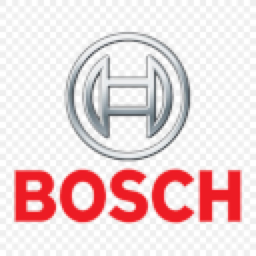
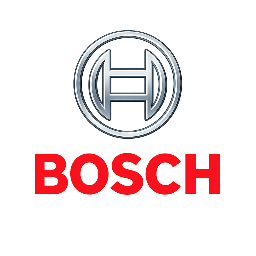
feat(pointtapi): WiFi firmware + energy-efficiency sensors, promote temps out of diagnostics, poll /programs + /devices (#15)
Supply temperature, return temperature (new) and modulation are regular sensors now instead of diagnostics. Adds WiFi firmware version and a reference-gated /gateway/ui/eco energy-efficiency sensor. Removes the firmware-update-state sensor (redundant with the update entity — existing installs should delete the orphaned registry entry once). Coordinator now also polls /programs and /devices as groundwork for ETRV telemetry. Refreshed brand icon.

Contributed by @jfhautenauven.

Changed region(s): [[0.0312, 0.0938, 0.9688, 0.875]]

diff --git a/custom_components/bosch/pointtapi_entities.py b/custom_components/bosch/pointtapi_entities.py
@@ -769,11 +769,24 @@ def _pointtapi_open_window_binary_sensor_descriptions(
     )
 
 
+def _gateway_ui_has_eco_reference(data: dict[str, Any]) -> bool:
+    """Return True when /gateway/ui references include /gateway/ui/eco."""
+    ui = data.get("/gateway/ui") if data else None
+    if not isinstance(ui, dict):
+        return False
+    refs = ui.get("references") or []
+    return any(
+        isinstance(ref, dict) and ref.get("id") == "/gateway/ui/eco"
+        for ref in refs
+    )
+
+
 # Curated POINTTAPI sensors: path, name, device_class, entity_category
 def _pointtapi_sensor_descriptions(
     data: dict[str, Any] | None = None,
 ) -> tuple[BoschPoinTTAPISensorEntityDescription, ...]:
     """Return all curated POINTTAPI sensor descriptions."""
+    data = data or {}
     descriptions = [
         # ── Existing sensors ─────────────────────────────────────────────────
         BoschPoinTTAPISensorEntityDescription(
@@ -803,8 +816,8 @@ def _pointtapi_sensor_descriptions(
             entity_category=EntityCategory.DIAGNOSTIC,
         ),
         BoschPoinTTAPISensorEntityDescription(
-            key="/gateway/update/state",
-            translation_key="update_state",
+            key="/gateway/wifi/versionFirmware",
+            translation_key="wifi_firmware_version",
             entity_category=EntityCategory.DIAGNOSTIC,
         ),
         BoschPoinTTAPISensorEntityDescription(
@@ -914,13 +927,17 @@ def _pointtapi_sensor_descriptions(
             translation_key="actual_supply_temperature",
             device_class=SensorDeviceClass.TEMPERATURE,
             native_unit_of_measurement=UnitOfTemperature.CELSIUS,
-            entity_category=EntityCategory.DIAGNOSTIC,
         ),
         BoschPoinTTAPISensorEntityDescription(
             key="/heatSources/actualModulation",
             translation_key="actual_modulation",
             native_unit_of_measurement="%",
-            entity_category=EntityCategory.DIAGNOSTIC,
+        ),
+        BoschPoinTTAPISensorEntityDescription(
+            key="/heatSources/returnTemperature",
+            translation_key="return_temperature",
+            device_class=SensorDeviceClass.TEMPERATURE,
+            native_unit_of_measurement=UnitOfTemperature.CELSIUS,
         ),
         # ── Solar circuit sensors ─────────────────────────────────────────────
         BoschPoinTTAPISensorEntityDescription(
@@ -994,6 +1011,17 @@ def _pointtapi_sensor_descriptions(
             entity_category=EntityCategory.DIAGNOSTIC,
         ),
     ]
+
+    if _gateway_ui_has_eco_reference(data):
+        descriptions.append(
+            BoschPoinTTAPISensorEntityDescription(
+                key="/gateway/ui/eco",
+                translation_key="energy_efficiency",
+                native_unit_of_measurement="%",
+                state_class=SensorStateClass.MEASUREMENT,
+            )
+        )
+
     descriptions.extend(_pointtapi_zone_valve_sensor_descriptions(data))
     return tuple(descriptions)
 

diff --git a/unittests/test_pointtapi_new_entities.py b/unittests/test_pointtapi_new_entities.py
@@ -134,6 +134,30 @@ class TestNotificationsHelpers:
         assert desc.available_fn({}) is False
         assert desc.available_fn({"/notifications": {"value": []}}) is True
 
+    def test_energy_efficiency_sensor_is_added_when_gateway_ui_references_eco(self):
+        data = {
+            "/gateway/ui": {
+                "references": [
+                    {"id": "/gateway/ui/eco"},
+                ]
+            }
+        }
+        descs = {d.key: d for d in _pointtapi_sensor_descriptions(data)}
+        desc = descs["/gateway/ui/eco"]
+        assert desc.translation_key == "energy_efficiency"
+        assert desc.native_unit_of_measurement == "%"
+
+    def test_energy_efficiency_sensor_is_not_added_without_reference(self):
+        data = {
+            "/gateway/ui": {
+                "references": [
+                    {"id": "/gateway/ui/icons"},
+                ]
+            }
+        }
+        descs = {d.key: d for d in _pointtapi_sensor_descriptions(data)}
+        assert "/gateway/ui/eco" not in descs
+
 
 # ── Description tables (spec: pointtapi-comfort-controls) ───────────────────
 
@@ -152,6 +176,16 @@ class TestTranslationCatalog:
 
 
 class TestComfortControlDescriptions:
+    def test_wifi_firmware_sensor_is_described(self):
+        descs = {d.key: d for d in _pointtapi_sensor_descriptions()}
+        d = descs["/gateway/wifi/versionFirmware"]
+        assert d.translation_key == "wifi_firmware_version"
+
+    def test_return_temperature_sensor_is_described(self):
+        descs = {d.key: d for d in _pointtapi_sensor_descriptions()}
+        d = descs["/heatSources/returnTemperature"]
+        assert d.translation_key == "return_temperature"
+
     def test_extra_dhw_switch_uses_translation_key(self):
         descs = {d.key: d for d in POINTTAPI_SWITCH_DESCRIPTIONS}
         d = descs["/dhwCircuits/dhw1/extraDhw"]

diff --git a/custom_components/bosch/pointtapi_coordinator.py b/custom_components/bosch/pointtapi_coordinator.py
@@ -43,6 +43,8 @@ POINTTAPI_COORDINATOR_ROOTS = [
     # Away mode leaf — not reachable via the /system/sensors or
     # /system/appliance reference walks (writeable: 1, verified 2026-06-05).
     "/system/awayMode/enabled",
+    "/programs",
+    "/devices",
 ]
 REFERENCES_KEY = "references"
 ID_KEY = "id"
